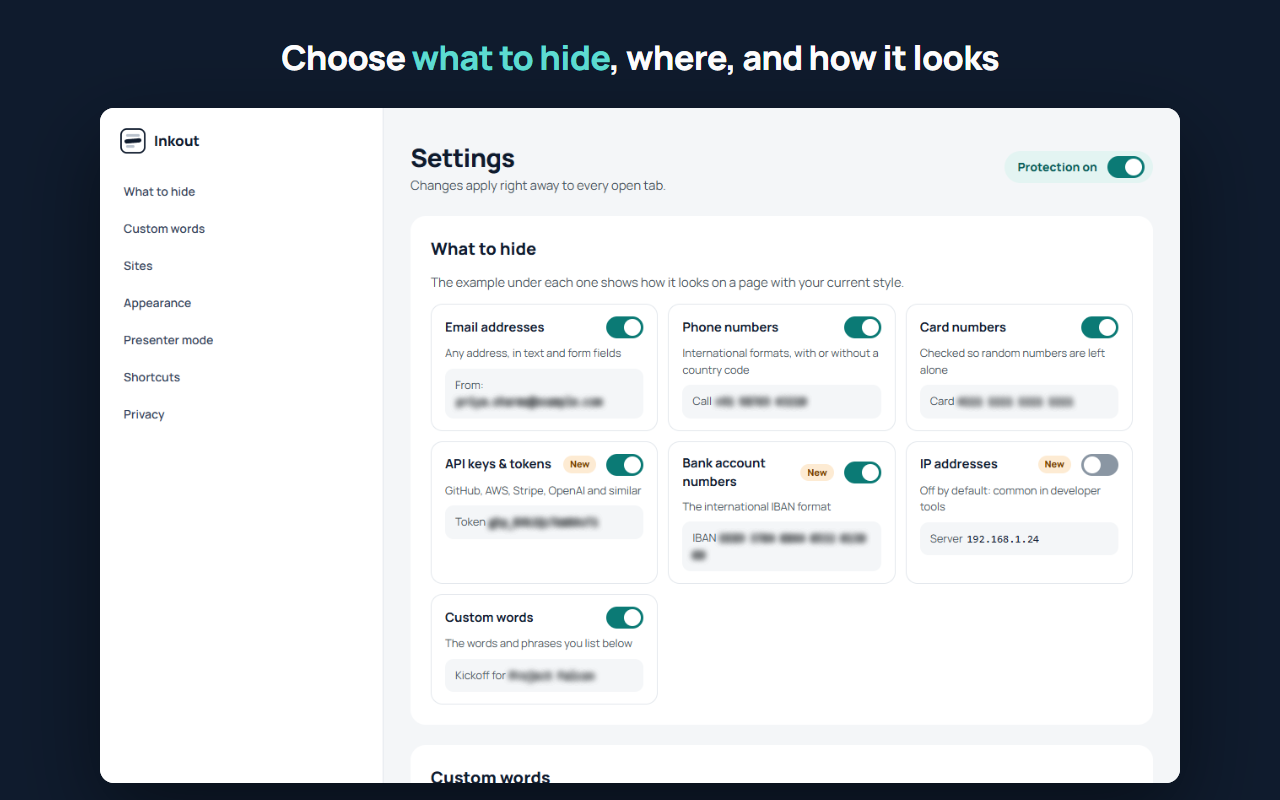
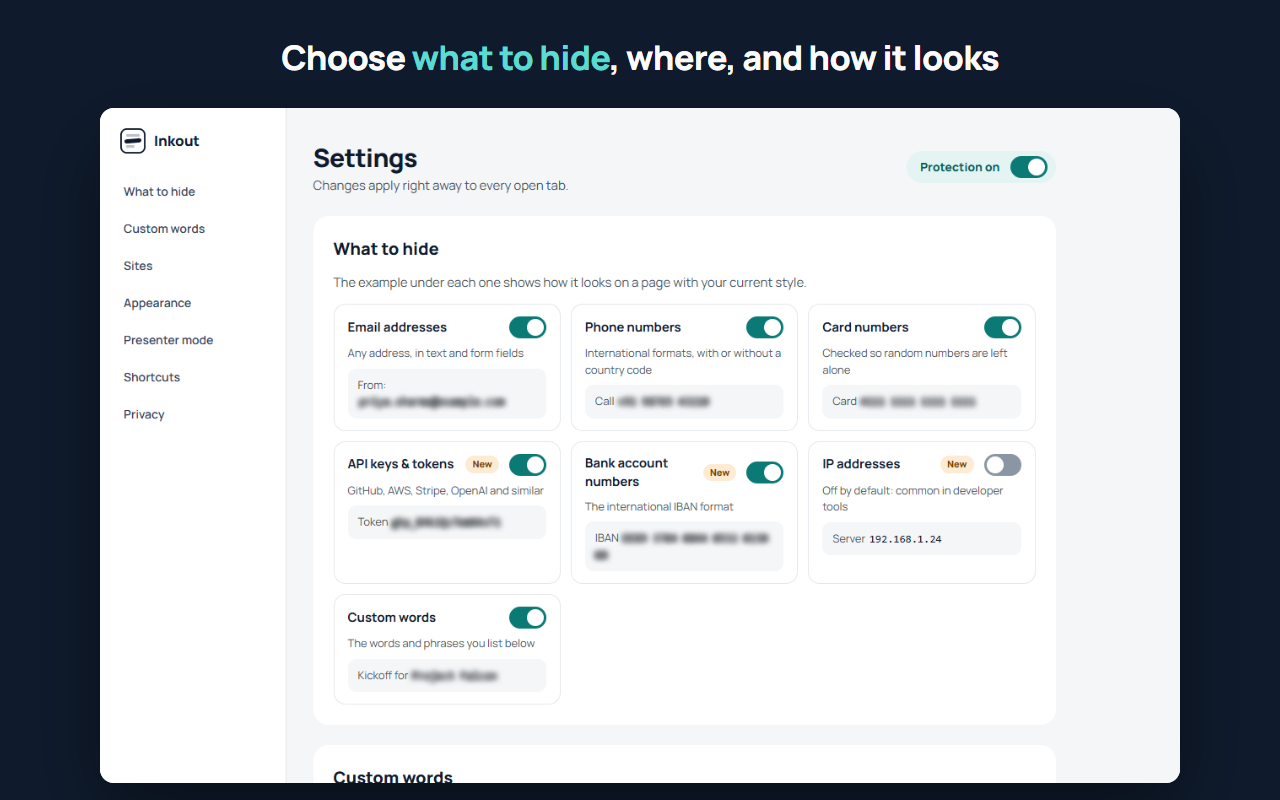
Inkout 1.0.1: settings sidebar stays narrow; store description without brand list (#4)
On windows wider than about 1,200px the settings sidebar took all the spare
width once the main column hit its 944px cap. The cap now sits on the
column's content, so the sidebar keeps its width. A browser test checks it
at 1,900px.

The store rejected 1.0.0 for excessive keywords (a list of brand names in
the description). The listing now uses the rewritten plain-text
description, and a test keeps brand names and Markdown out of it. The
category is Privacy & Security, and the settings screenshot is re-rendered.

diff --git a/tests/browser/extension.test.js b/tests/browser/extension.test.js
@@ -1111,6 +1111,8 @@ describe('extension in a real browser', { skip: skipReason }, () => {
   describe('settings page', () => {
     const DESKTOP_WIDTH = 1280;
     const PHONE_WIDTH = 375;
+    const WIDE_WIDTH = 1900;
+    const SIDEBAR_MAX_WIDTH = 260;
     let fixture;
     let options;
 
@@ -1296,6 +1298,14 @@ describe('extension in a real browser', { skip: skipReason }, () => {
         assert.ok((await options.evaluate('document.documentElement.scrollWidth')) <= width, `scrolls sideways at ${width}px`);
       }
       await chrome.send('Emulation.clearDeviceMetricsOverride', {}, options.sessionId);
+    });
+
+    test('keeps the sidebar narrow in a wide window', async () => {
+      await chrome.send('Emulation.setDeviceMetricsOverride', { width: WIDE_WIDTH, height: 900, deviceScaleFactor: 1, mobile: false }, options.sessionId);
+      await options.settle(200);
+      const sidebarWidth = await options.evaluate(`document.querySelector('.sidebar').getBoundingClientRect().width`);
+      await chrome.send('Emulation.clearDeviceMetricsOverride', {}, options.sessionId);
+      assert.ok(sidebarWidth <= SIDEBAR_MAX_WIDTH, `sidebar is ${sidebarWidth}px wide at ${WIDE_WIDTH}px`);
     });
   });
 

diff --git a/tests/store.test.js b/tests/store.test.js
@@ -39,6 +39,17 @@ test('the listing summary fits the store limit and matches the manifest', () => 
   assert.equal(summary, manifest.description);
 });
 
+// The store rejected 1.0.0 for "excessive keywords" over a list of brand names, and shows the
+// description as plain text, so Markdown marks would appear as typed.
+test('the listing description lists no brand names and uses no Markdown', () => {
+  const listing = fs.readFileSync(path.join(STORE, 'listing.md'), 'utf8');
+  const description = listing.match(/## Description\s+([\s\S]*?)\n## /)[1];
+  for (const brand of ['GitHub', 'AWS', 'Stripe', 'OpenAI', 'Slack', 'Google', 'Meet', 'Teams', 'Zoom']) {
+    assert.doesNotMatch(description, new RegExp(`\\b${brand}\\b`), brand);
+  }
+  assert.doesNotMatch(description, /^#|\*\*|^- /m);
+});
+
 test('the listing gives the privacy policy and support contact', () => {
   const listing = fs.readFileSync(path.join(STORE, 'listing.md'), 'utf8');
   assert.ok(listing.includes('https://kunalkumarkkr01.github.io/inkout/privacy.html'));

diff --git a/src/options.css b/src/options.css
@@ -156,7 +156,11 @@ main {
   display: flex;
   flex-direction: column;
   gap: 24px;
-  max-width: 944px;
+}
+
+/* Capped here, not on main: a capped main leaves the spare width of a wide window to the sidebar. */
+main > * {
+  max-width: 880px;
 }
 
 .heading {

diff --git a/store/listing.md b/store/listing.md
@@ -12,7 +12,7 @@ Hides emails, phone numbers, card numbers and API keys on web pages while you sh
 
 ## Category
 
-Productivity
+Privacy & Security (the dashboard lists sub-categories only; this one sits under "Make Chrome Yours")
 
 ## Language
 
@@ -22,35 +22,40 @@ English
 
 Share your screen, not your inbox.
 
-Inkout blurs sensitive text on every website, automatically, so it never reaches the people on your video call. Nothing to set up: it works from the moment it's installed.
+Inkout automatically blurs sensitive information across websites, helping you protect private data when sharing your screen during video calls, presentations, or demonstrations.
+
+No complicated setup required. Install Inkout and it starts protecting your browsing experience.
 
 What it hides:
-• Email addresses, including international ones
-• Phone numbers in international formats
-• Card numbers (checked, so random numbers are left alone)
-• API keys and tokens (GitHub, AWS, Stripe, OpenAI, Slack, Google and similar)
+• Email addresses, including international formats
+• Phone numbers, including international formats
+• Payment card numbers, with validation to reduce false positives
+• API keys, access tokens, and other authentication credentials
 • Bank account numbers in IBAN format
-• IP addresses (off by default)
-• Your own words and phrases, such as client or project names
+• IP addresses (disabled by default)
+• Custom words and phrases, such as client names, project names, or other confidential terms
 
 How it works:
-• Blur or a solid bar, in three strengths
-• Hidden values stay hidden when you select text
-• Also covers text fields, tab titles, frames, web components and SVG text
-• Works on apps that keep loading new content, like web mail
-• Presenter mode: notices when you start sharing in Meet, Teams, Zoom and other meeting sites on the web, and switches protection on
-• Alt+Shift+K blurs the whole page in an instant, for surprises
-• Pause a single tab when you need to see something; a badge shows it's paused
-• Choose the sites it runs on, or list sites to leave alone
-• A red OFF badge tells you before you share if protection is off (Alt+Shift+H)
+• Choose between blur and solid-bar masking styles, with three intensity levels
+• Prevent sensitive information from being revealed through text selection
+• Protect content in text fields, tab titles, frames, web components, and SVG text
+• Automatically detect and protect dynamically loaded content
+• Presenter Mode detects screen sharing started on web meeting sites and turns protection on automatically
+• Press Alt+Shift+K to blur the entire page instantly
+• Temporarily pause protection on individual tabs when needed, with a visible indicator
+• Configure which websites Inkout should protect or exclude
+• A red OFF indicator warns you when protection is turned off. Press Alt+Shift+H to turn protection on or off
 
 Private by design:
-• Inkout collects nothing and sends nothing anywhere. Page content never leaves your browser.
-• Settings are saved in Chrome; with Chrome sync on, Chrome copies them to your other browsers.
-• No account, no analytics, no ads.
+• No data collection or external transmission. Your page content stays inside your browser.
+• Settings are stored in Chrome. If Chrome Sync is enabled, your settings may sync across your devices.
+• No account required, no analytics, and no advertisements.
 • Free and open source: https://github.com/KunalKumarkkr01/inkout
 
-What it can't hide: Chrome's own interface (address bar, autofill), text inside images or canvas drawings, PDFs, and screen shares started from desktop apps.
+Limitations:
+Inkout cannot hide content in Chrome's own interface, including the address bar and autofill suggestions. It also cannot detect text embedded in images, canvas drawings, or PDFs. Screen sharing started from desktop apps is not detected.
+
+Inkout is designed to help reduce accidental exposure of sensitive information, but it is not a replacement for reviewing your screen before sharing.
 
 ## Single purpose
 
